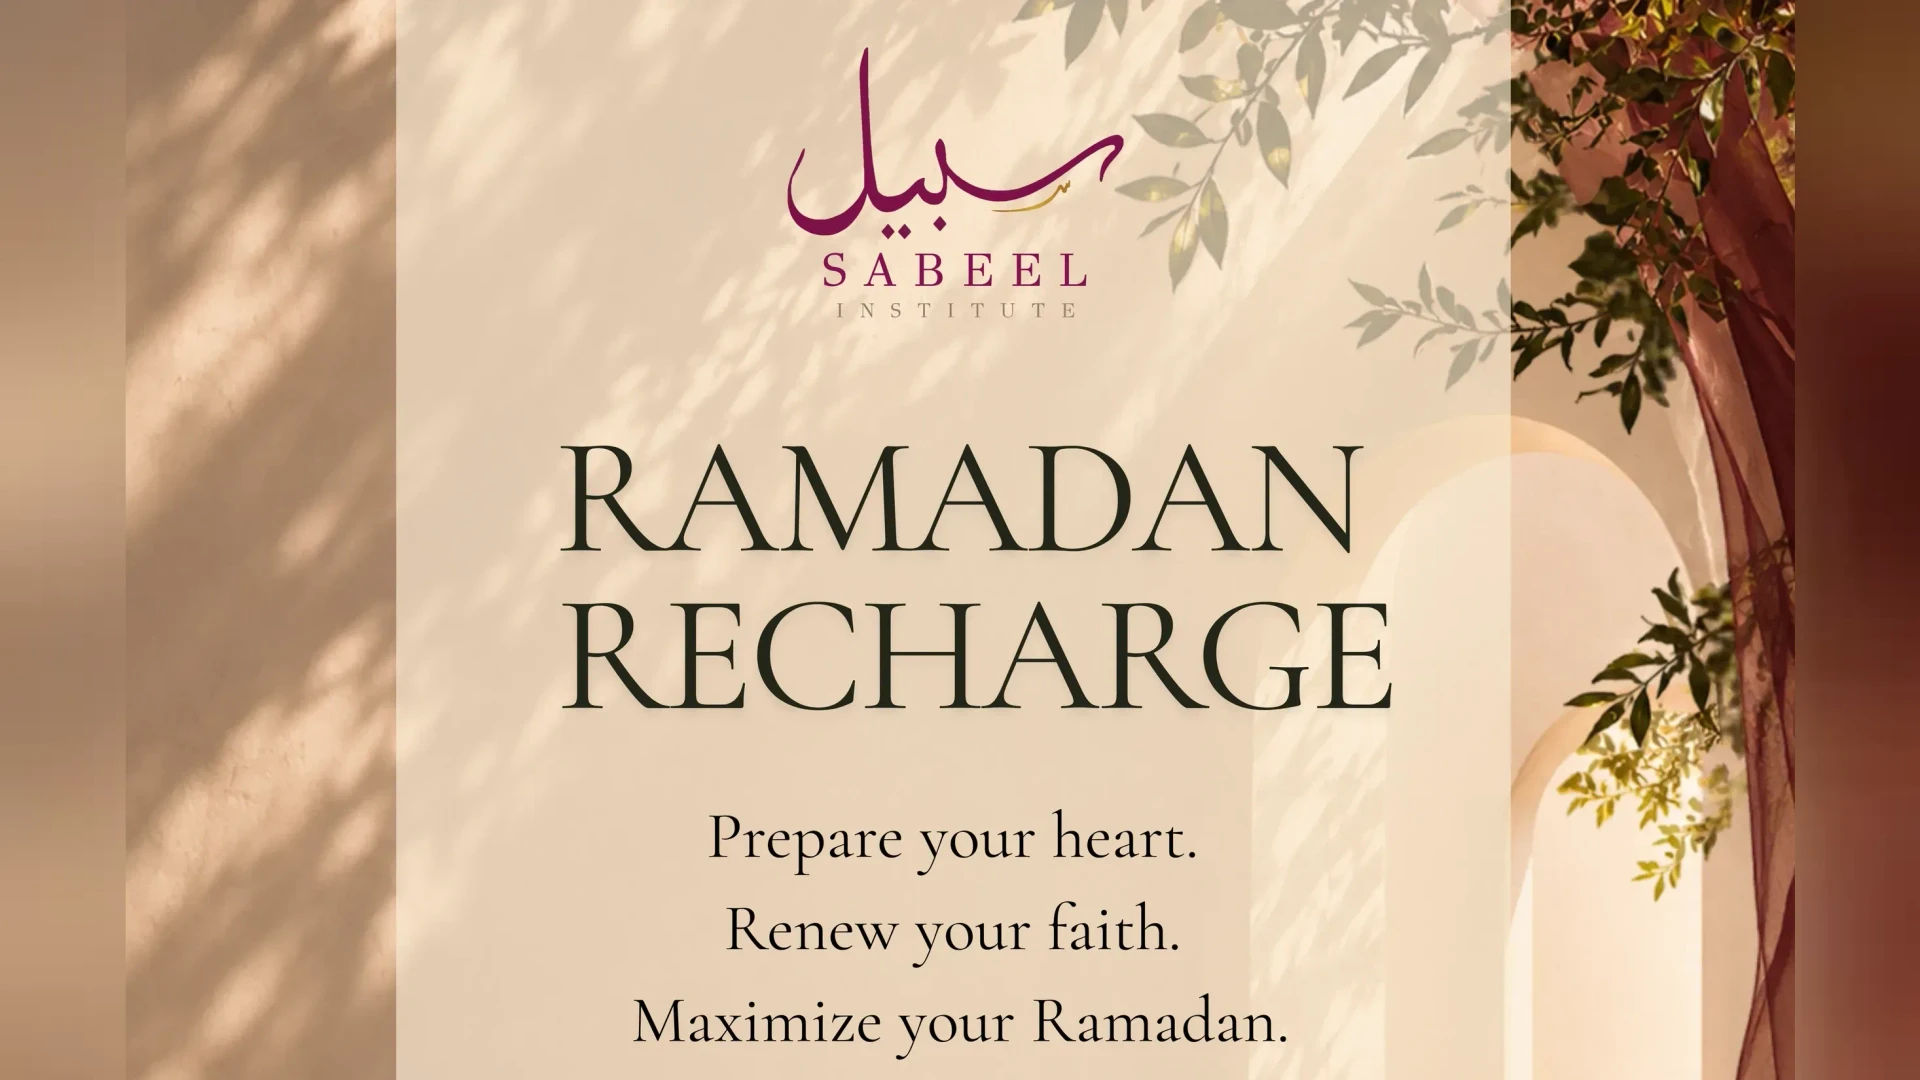
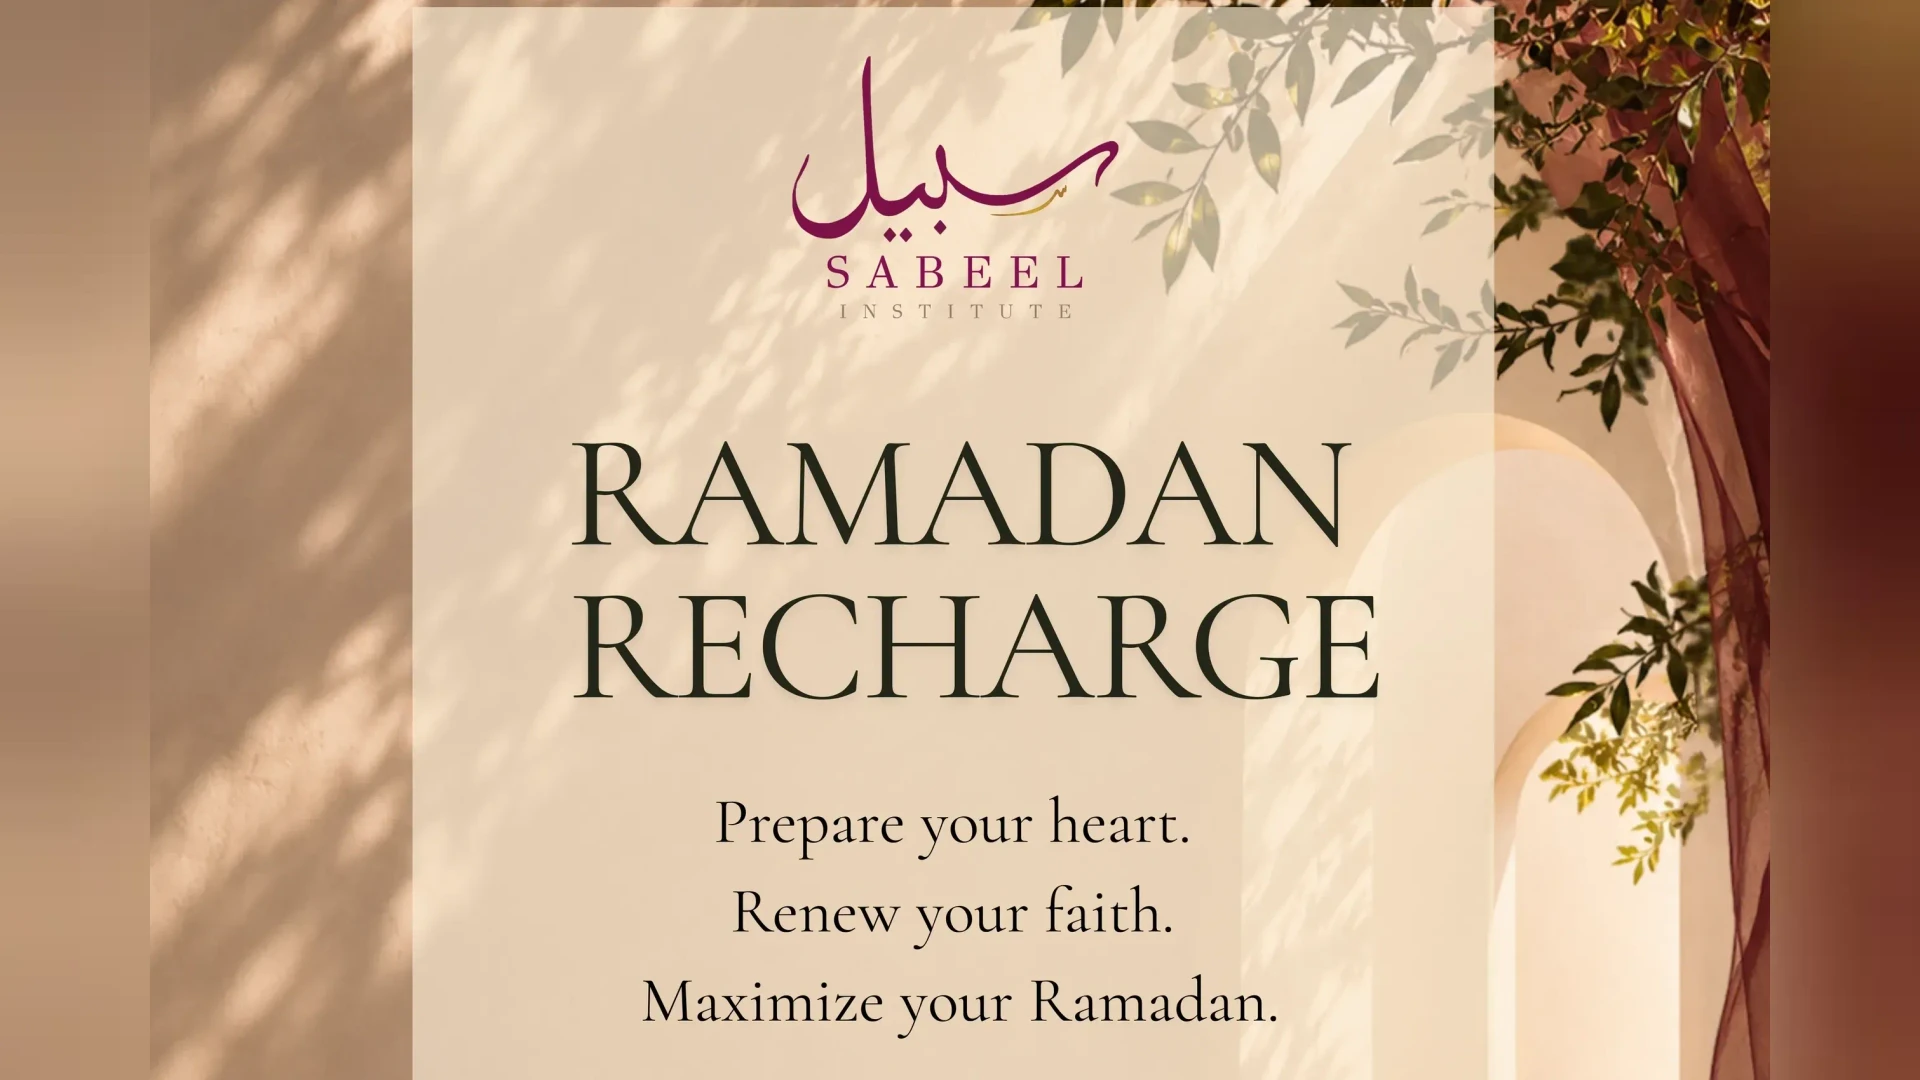
Tidy the Ramadan Recharge page (#125)
* fix(programs): tidy the Ramadan Recharge page

The schedule's label repeated the Location box in front of the days
and time, so the card's schedule ran to three lines; without it the
card reads "Tuesdays & Thursdays · 12:30–1:30 PM CT".

The program image is remade from rows 2.5–54% of the flyer, so the
tagline's last line clears the bottom edge by about 5% and is not cut
when link previews trim the image to 1.91:1.

The heading at the top of What to know repeated the page's title and
subtitle, so it is removed.

* Update Ramadan Recharge summary with requested course description

---------

diff --git a/src/content/programs/ramadan-recharge-2027/index.md b/src/content/programs/ramadan-recharge-2027/index.md
@@ -2,13 +2,12 @@
 status: open
 title: Ramadan Recharge
 subtitle: Maximizing Your Ramadan
-summary: Come away with the knowledge, inspiration, and a practical plan to make this Ramadan your most meaningful yet!
+summary: Join Sabeel Institute for a six-class journey exploring the virtues and fiqh of fasting, developing love for Allah, the power of duʿāʾ, spiritual growth, and practical ways to make the most of Ramadan.
 area: womens-learning
 schedule:
   - start: 2027-01-12
     time: 12:30–1:30 PM
     repeat: FREQ=WEEKLY;BYDAY=TU,TH;UNTIL=20270128
-    label: Online every session; on-site Thursdays
 audience: Women
 format: Online & on-site
 venue: masjid-istiqlal
@@ -24,8 +23,6 @@ image: ./image.webp
 imageAlt: "Title artwork: Ramadan Recharge — Prepare your heart. Renew your faith. Maximize your Ramadan."
 flyer: ./flyer.webp
 ---
-
-## Ramadan Recharge 2027: Maximizing Your Ramadan
 
 Ramadan is more than a month of fasting, it is an opportunity to strengthen our relationship with Allah, purify our hearts, and transform our lives.
 
